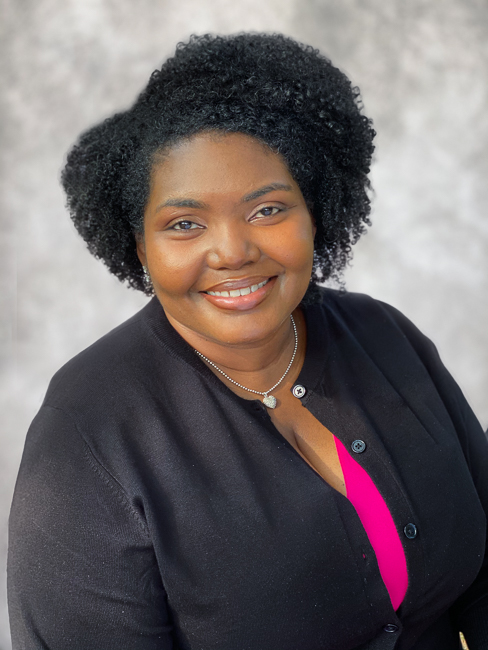
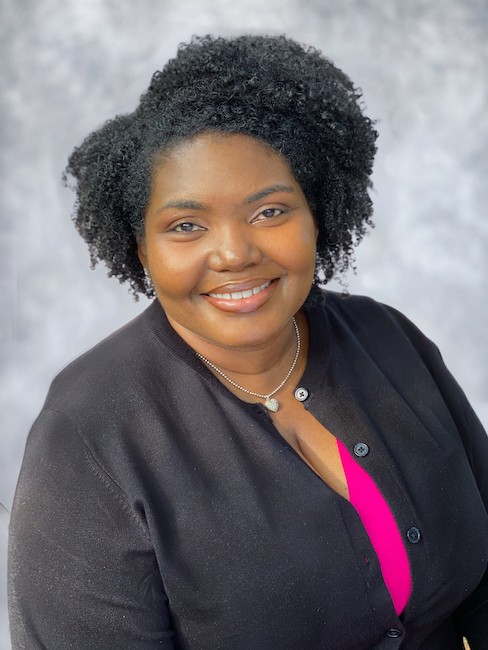
change images, remove empl

diff --git a/_includes/form.html b/_includes/form.html
@@ -33,9 +33,8 @@
         <option>Who would you like to contact</option>
         <option value="1">{{site.data.employees.sary.name}}</option>
         <option value="2">{{site.data.employees.alana.name}}</option>
-        <option value="3">{{site.data.employees.rene.name}}</option>
-        <option value="4">{{site.data.employees.cassandra.name}}</option>
-        <option value="5">{{site.data.employees.madison.name}}</option>
+        <option value="3">{{site.data.employees.cassandra.name}}</option>
+        <option value="4">{{site.data.employees.madison.name}}</option>
       </select>
     </div>
   </div>

diff --git a/index.html b/index.html
@@ -70,10 +70,6 @@ description: >-
               </a>{{site.data.employees.alana.name}}
               <!-- <span class="phone">646-397-6235</span> -->
               <br/>
-              <a href="mailto:{{site.data.employees.rene.email}}">
-                <i class="fas fa-envelope"></i>
-              </a>{{site.data.employees.rene.name}}
-              <br/>
               <a href="mailto:{{site.data.employees.cassandra.email}}">
                 <i class="fas fa-envelope"></i>
               </a>{{site.data.employees.cassandra.name}}

diff --git a/_pages/meet-our-team.html b/_pages/meet-our-team.html
@@ -2,7 +2,7 @@
 layout: default
 title: Meet Our Team
 description: >-
-  Meet our team of qualified individuals. Owner/Founder Sary Rottenberg LMHC, Alan Devine-Dunn MHC-LP, Rene Gonzalez LMHC, Cassandra Robertson-Benjamin MHC-LP, Madison Liddle MHC-LP.
+  Meet our team of qualified individuals. Owner/Founder Sary Rottenberg LMHC, Alan Devine-Dunn MHC-LP, Cassandra Robertson-Benjamin MHC-LP, Madison Liddle MHC-LP.
 permalink: /meet-our-team/
 ---
 <!-- Page Content -->
